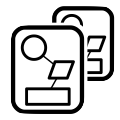
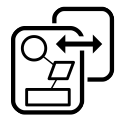
Add option to duplicate a project.

diff --git a/src/rasterProject.js b/src/rasterProject.js
@@ -3,7 +3,7 @@
  */
 
 /* global
-_, Assessment, bugreport, Component, ComponentIterator, createUUID, exportProject, GroupSettings, H, isSameString, loadFromString, LS, mylang, newRasterConfirm, nid2id, NodeCluster, NodeCluster, NodeClusterIterator, populateProjectList, Preferences, prettyDate, ProjectIterator, rasterAlert, Rules, Service, ServiceIterator, SizeDOMElements, startAutoSave, switchToProject, ToolGroup, Transaction, urlEncode, Vulnerability, VulnerabilityIterator
+_, Assessment, AssessmentIterator, bugreport, Component, ComponentIterator, createUUID, exportProject, GroupSettings, H, isSameString, loadFromString, LS, mylang, newRasterConfirm, nid2id, NodeCluster, NodeCluster, NodeClusterIterator, populateProjectList, Preferences, prettyDate, ProjectIterator, rasterAlert, Rules, Service, ServiceIterator, SizeDOMElements, startAutoSave, switchToProject, ToolGroup, Transaction, urlEncode, Vulnerability, VulnerabilityIterator
 */
 
 /* * * * * * * * * * * * * * * * * * * * * * * * * * * * * * * * * * * * * * * * * * *
@@ -42,6 +42,7 @@ _, Assessment, bugreport, Component, ComponentIterator, createUUID, exportProjec
  *		See rasterTransaction.js for description of these, and the transaction list.
  * Methods:
  *	destroy(): destructor for this object
+ *	duplicate(): creates an exact copy of this project, and returns that duplicate. Note: this will create two projects with the samen name.
  *	totalnodes(): returns the count of all nodes within all services of this project.
  *	settitle(t): change the title to 't' (50 chars max). The actual title may receive
  *		a numerical suffix to make it unique.
@@ -437,6 +438,109 @@ Project.prototype = {
 		for (const vid of this.vulns) Vulnerability.get(vid).destroy();
 		localStorage.removeItem(LS+'P:'+this.id);
 		Project._all.delete(this.id);
+	},
+	
+	duplicate: function() {
+		let tr = new Map();	// translates UUIDs in this to new UUIDs
+		tr.set(null,null);
+		let it;
+		// First collect all new UUIDs
+		it = new VulnerabilityIterator({project: this.id});
+		it.forEach(obj => tr.set(obj.id,createUUID()));
+		it = new ServiceIterator({project: this.id});
+		it.forEach(obj => tr.set(obj.id,createUUID()));
+		it = new ComponentIterator({project: this.id});
+		it.forEach(obj => tr.set(obj.id,createUUID()));
+		it = new NodeIterator({project: this.id});
+		it.forEach(obj => tr.set(obj.id,createUUID()));
+		it = new AssessmentIterator({project: this.id});
+		it.forEach(obj => tr.set(obj.id,createUUID()));
+		it = new NodeClusterIterator({project: this.id});
+		it.forEach(obj => tr.set(obj.id,createUUID()));
+		tr.set(this.id,createUUID());
+		// Now that we have all existing and new UUIDs, clone each of the objects
+		let p = new Project(tr.get(this.id));
+		p.title = this.title;
+		p.group = this.group;
+		p.description = this.description;
+		this.services.forEach( (v,i) => p.services[i]=tr.get(v) );
+		this.vulns.forEach( (v,i) => p.vulns[i]=tr.get(v) );
+		p.labels = this.labels.slice();
+		p.creator = this.creator;
+		p.date = this.date;
+		p.shared = this.shared;
+		p.stub = this.stub;
+		p.store();
+		it = new VulnerabilityIterator({project: this.id});
+		it.forEach(vln => {
+			let vc = new Vulnerability(p.id,vln.type,tr.get(vln.id));
+			vc.title = vln.title;
+			vc.description = vln.description;
+			vc.common = vln.common;
+			vc.store();
+		});
+		it = new ServiceIterator({project: this.id});
+		it.forEach(svc => {
+			let sc = new Service(p.id,tr.get(svc.id));
+			sc.title = svc.title;
+			sc.store();
+		});
+		it = new ComponentIterator({project: this.id});
+		it.forEach(cm => {
+			let cc = new Component(cm.type, p.id, tr.get(cm.id));
+			cm.nodes.forEach( (v,i) => cc.nodes[i] = tr.get(v) );
+			cc.title = cm.title;
+			cm.assmnt.forEach( (v,i) => cc.assmnt[i] = tr.get(v) );
+			cc.magnitude = cm.magnitude;
+			cc.single = cm.single;
+			cc._markeriod = "#sfamark"+'_asdfasdf_'+'_'+tr.get(cm.id);
+			cc.accordionopened = cm.accordionopened;
+			cc.store();
+		});
+		it = new NodeIterator({project: this.id});
+		it.forEach(nd => {
+			let nc = new Node(nd.type,tr.get(nd.service),tr.get(nd.id));
+			nc.index = nd.index;
+			nc.position = Object.assign({},nd.position);	// clone position object
+			nd.connect.forEach( (v,i) => nc.connect[i] = tr.get(v) );
+			nc._normw = nd._normw;
+			nc._normh = nd._normh;
+			nc.component = tr.get(nd.component);
+			nc.title = nd.title;
+			nc.suffix = nd.suffix;
+			nc.color = nd.color;
+			nc.store();
+		});
+		it = new AssessmentIterator({project: this.id});
+		it.forEach(assm => {
+			let ac = new Assessment(assm.type,tr.get(assm.id));
+			ac.vulnerability = tr.get(assm.vulnerability);
+			ac.component = tr.get(assm.component);
+			ac.cluster = tr.get(assm.cluster);
+			ac._title = assm._title;
+			ac.freq = assm.freq;
+			ac.impact = assm.impact;
+			ac.minimpact = assm.minimpact;
+//			ac._impactoid = ... ;
+			ac.total = assm.total;
+			ac.remark = assm.remark;
+			ac.store();
+		});
+		it = new NodeClusterIterator({project: this.id});
+		it.forEach(nc => {
+			let cc = new NodeCluster(nc.type,tr.get(nc.id));
+			cc.title = nc.title;
+			cc.project = p.id;
+			cc.parentcluster = tr.get(nc.parentcluster);
+			nc.childclusters.forEach( (v,i) => cc.childclusters[i]=tr.get(v) );
+			nc.childnodes.forEach( (v,i) => cc.childnodes[i]=tr.get(v) );
+			cc.assmnt = tr.get(nc.assmnt);
+			cc.magnitude = nc.magnitude;
+			cc._markeroid = '#ccfamark'+tr.get(nc.id);
+			cc.accordionopened = nc.accordionopened;
+			cc.store();
+		});
+		return p;
 	},
 	
 	updateUndoRedoUI: function() {

diff --git a/src/rasterMain.js b/src/rasterMain.js
@@ -218,6 +218,7 @@ function initAllAndSetup() {
 	// Projects toolbar
 
 	$('#libadd').attr('title',_("Add a new, blank project to the library."));
+	$('#libduplicate').attr('title',_("Create a copy of this project."));
 	$('#libimport').attr('title',_("Load a project from a file."));
 	$('#libexport').attr('title',_("Save the current project to a file."));
 	// Add --------------------
@@ -285,6 +286,13 @@ function initAllAndSetup() {
 			// Blank project
 			addEmptyProject();
 		}
+	});
+	// Duplicate --------------------
+	$('#libduplicate').on('click',  function() {
+		let p = Project.get(Project.cid);
+		let clone = p.duplicate();
+		clone.settitle(p.title+_(" (copy)"));
+		switchToProject(clone.id,true);
 	});
 	// Import --------------------
 	$('#libimport').on('click',  function() {

diff --git a/common/css/raster.css b/common/css/raster.css
@@ -299,6 +299,7 @@ body {
 #fileElem {visibility: hidden; width: 0; height: 0; }
 
 #libadd {background-image: url(../img/new_p.png);}
+#libduplicate {background-image: url(../img/duplicate_p.png);}
 #libimport {background-image: url(../img/import_p.png);}
 #libexport {background-image: url(../img/export_p.png);}
 
